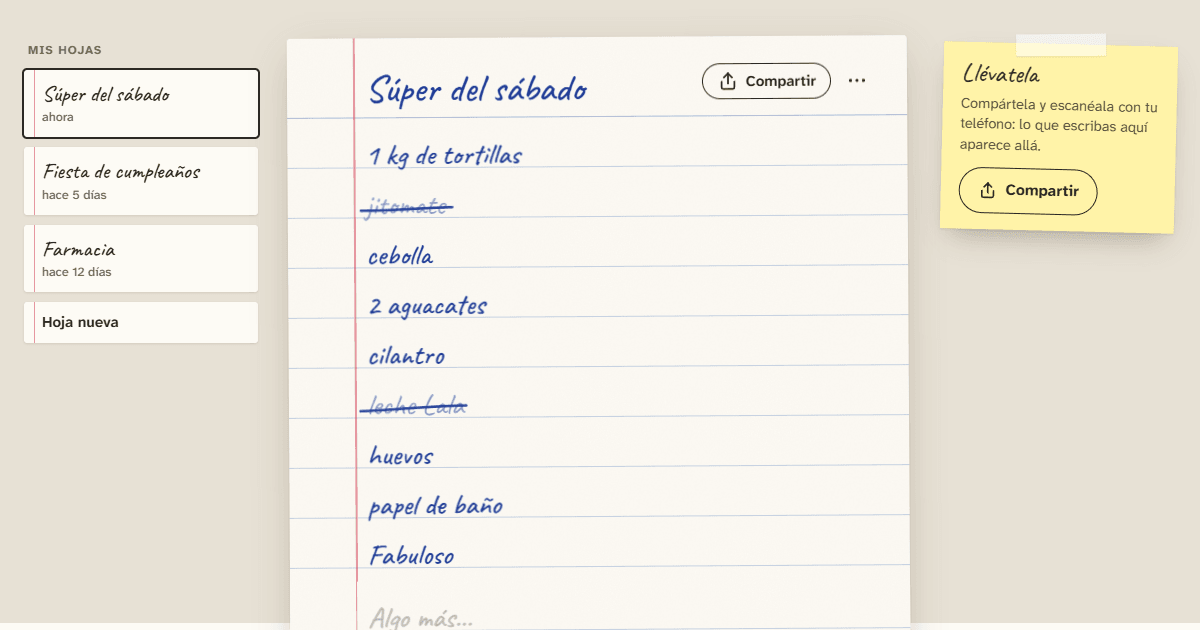
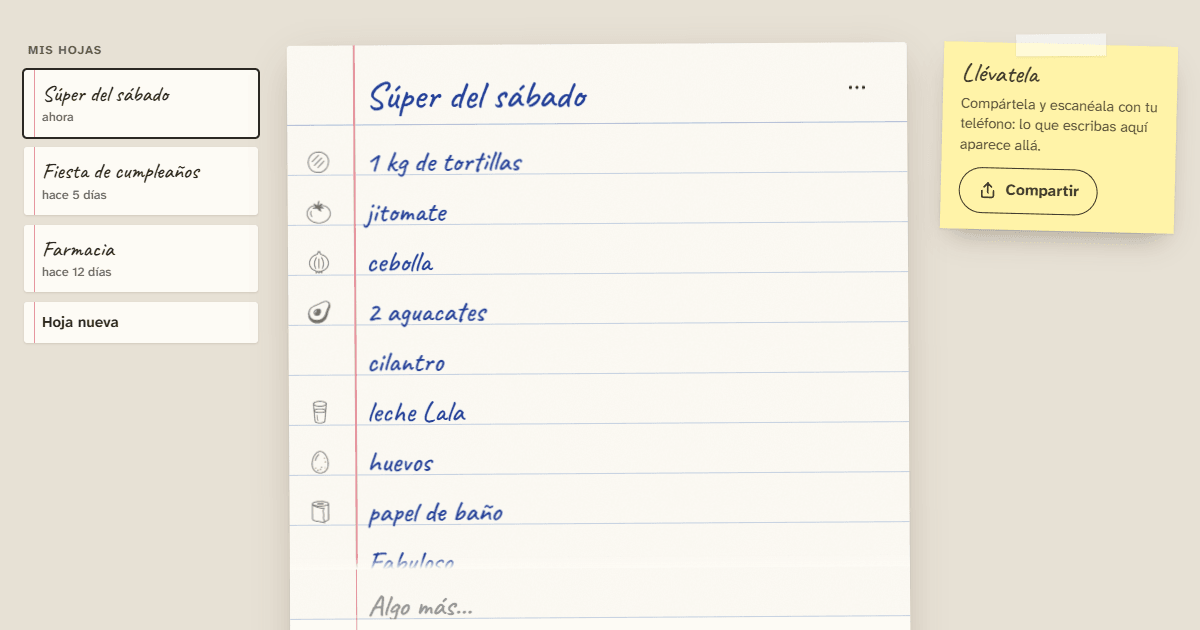
A desk's first frame shows the top of the sheet; a stuck writing line hides what is under it
Regenerating the link preview (public/og.png) showed two things. On a desk the first frame
focused the writing line with scrolling, so a long list opened scrolled to its bottom with the
title out of view; the first focus no longer scrolls (typing brings the line into view). And on
a desk the sheet's -0.35° tilt lifts the stuck writing line's right corner a few pixels off the
screen edge, where the next row peeked through under it; a band of ruled paper now continues
below the stuck block. The preview image is regenerated from the current UI.

diff --git a/src/ui/app.js b/src/ui/app.js
@@ -75,7 +75,8 @@ export class PapelApp extends LitElement {
     document.fonts.ready.then(() => this.redrawStrikes());
     document.fonts.addEventListener('loadingdone', () => this.redrawStrikes());
     // desktop: a real keyboard is there, so the first frame is ready to write
-    if (matchMedia('(pointer: fine)').matches && !this.card) this.focusComposer();
+    // (without scrolling: the first frame shows the top of the sheet; typing brings the line into view)
+    if (matchMedia('(pointer: fine)').matches && !this.card) this.focusComposer(false);
     if (install.pendingHint()) setTimeout(() => install.showHint(this), 600);
   }
 
@@ -200,9 +201,9 @@ export class PapelApp extends LitElement {
     try { if (v) localStorage.setItem(`ll.draft.${store.rec.id}`, v); else localStorage.removeItem(`ll.draft.${store.rec.id}`); } catch { /* ignore */ }
   }
 
-  focusComposer() {
+  focusComposer(scroll = true) {
     const ta = this.querySelector('.composer textarea');
-    if (ta) ta.focus({ preventScroll: false });
+    if (ta) ta.focus({ preventScroll: !scroll });
   }
 
   onComposerInput(e) {

diff --git a/src/style.css b/src/style.css
@@ -425,6 +425,14 @@ ol.rows, ul.rows { list-style: none; margin: 0; padding: 0; }
     var(--paper);
 }
 /* rows scrolling under the writing line fade into the paper instead of being cut */
+/* the sheet is tilted on a desk, so a stuck block's right corner lifts a few px off the screen's
+   edge: a band of paper below it keeps the rows from peeking through */
+.writing.sticky[data-stuck]::after {
+  content: ''; position: absolute; left: 0; right: 0; top: 100%; height: 16px; pointer-events: none;
+  background:
+    linear-gradient(to right, transparent calc(var(--margin-x)), var(--margin) calc(var(--margin-x)), var(--margin) calc(var(--margin-x) + 1.5px), transparent calc(var(--margin-x) + 1.5px)),
+    var(--paper);
+}
 .writing.sticky[data-stuck]::before {
   content: ''; position: absolute; left: 0; right: 0; top: -12px; height: 12px; pointer-events: none;
   background: linear-gradient(to top, var(--paper), transparent);
